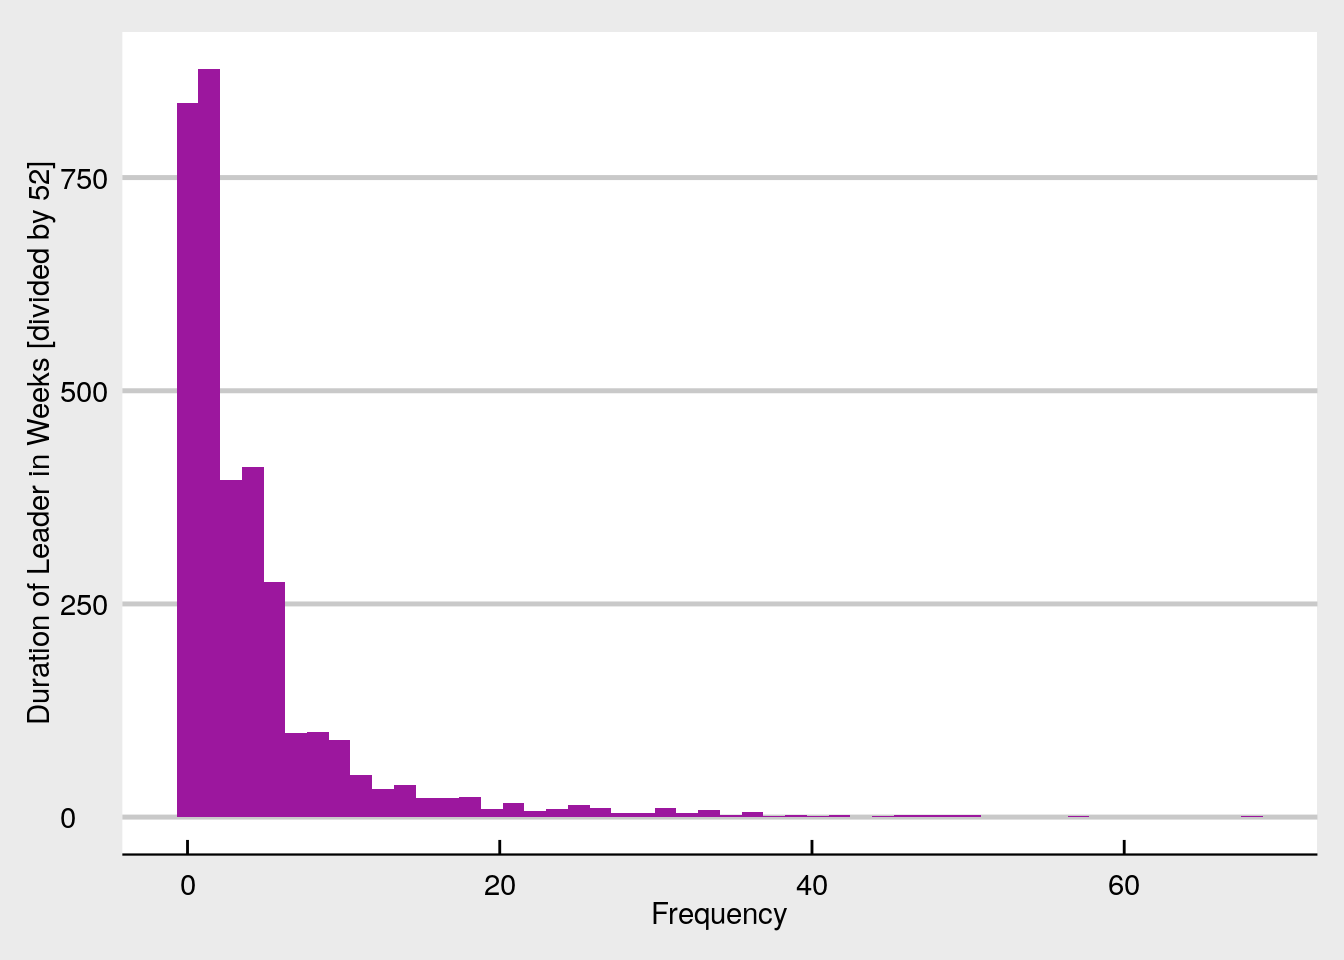
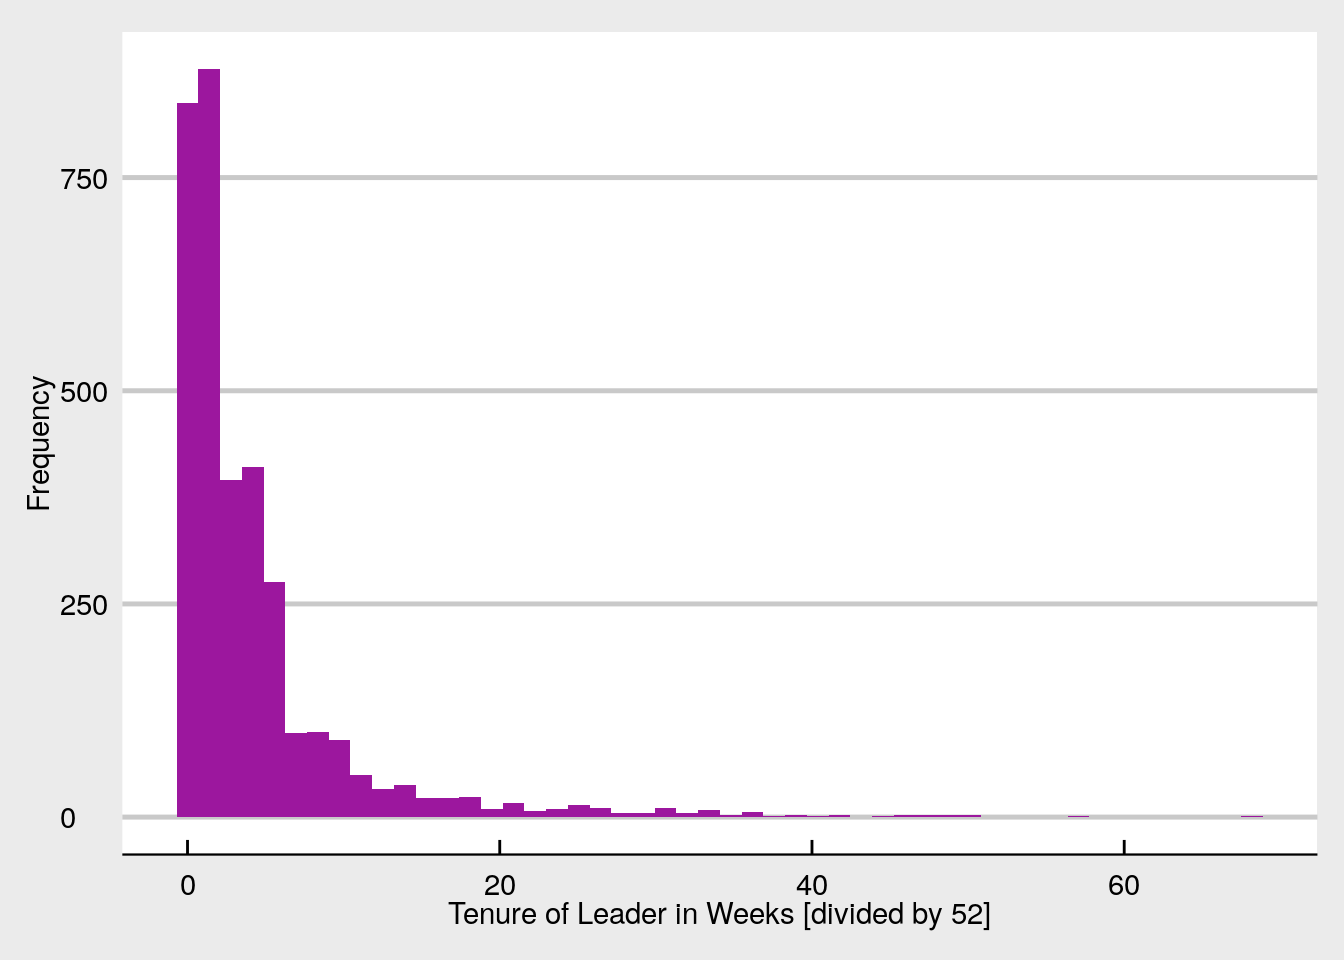
fredr titles require stringr

diff --git a/content/post/2019-04-11-fredr-is-very-neat.html b/content/post/2019-04-11-fredr-is-very-neat.html
@@ -55,12 +55,14 @@ ChargeOff %&gt;% select(title)</code></pre>
 ## 10 Net Charge-Offs on All Loans and Leases, Secured by Real Estate, Single…
 ## # … with 14 more rows</code></pre>
 <p>Wow, there is a rich array of data from that query. An even cooler feature is the ability to retrieve multiple at once in combination with the <code>map_dfr</code> command from the <code>purrr</code> library to make it tidy; that will go through the search results and stack the data that is returned [bind it together by rows]. These map commands are the tidy version of apply. In this case, binding the columns will likely fail because the times series are unlikely to be of the same length and that would create ragged columns. Better tidy from the start here.</p>
-<pre class="r"><code>ChargeOff.Data &lt;- map_dfr(ChargeOff$id, fredr)</code></pre>
-<p>Just to finish one piece, let me show what these data look like for one series.</p>
-<pre class="r"><code>ChargeOff.Data %&gt;% filter(series_id==&quot;CORSREOBS&quot;) %&gt;% 
-  ggplot(data = ., mapping = aes(x = date, y = value)) +
+<pre class="r"><code>library(stringr)
+ChargeOff.Data &lt;- map_dfr(ChargeOff$id, fredr) %&gt;% left_join(ChargeOff, by=c(&quot;series_id&quot; = &quot;id&quot;))</code></pre>
+<p>Just to finish one piece, let me show what these data look like for one series. Splitting the name into two parts gives us the title and subtitle but the split is inconsistent so the solution is not general.</p>
+<pre class="r"><code>ChargeOff.Short &lt;- ChargeOff.Data %&gt;% filter(series_id==&quot;CORSREOBS&quot;) 
+SeriesTitle &lt;- ChargeOff.Short[1,&quot;title&quot;] %&gt;% str_split(., &quot;[,]&quot;) %&gt;% unlist()
+ChargeOff.Short %&gt;% ggplot(data = ., mapping = aes(x = date, y = value)) +
     geom_line() +
-    labs(x = &quot;Observation Date&quot;, y = &quot;Rate&quot;)</code></pre>
+    labs(x = &quot;Date&quot;, y = &quot;Rate&quot;, title=SeriesTitle[[1]], subtitle = SeriesTitle[[2]] )</code></pre>
 <p><img src="/post/2019-04-11-fredr-is-very-neat_files/figure-html/unnamed-chunk-2-1.png" width="672" /></p>
 <div id="counties-and-mapping" class="section level2">
 <h2>Counties and Mapping</h2>

diff --git a/content/post/2019-04-14-visualisation-with-archigos-leaders-of-the-world.html b/content/post/2019-04-14-visualisation-with-archigos-leaders-of-the-world.html
@@ -101,7 +101,7 @@ skimr::skim(Shorty)</code></pre>
 </div>
 <div id="on-duration" class="section level2">
 <h2>On Duration</h2>
-<pre class="r"><code>Archigos %&gt;% mutate(Duration = difftime(enddate, startdate, units=&quot;weeks&quot;)/52) %&gt;% ggplot(aes(Duration)) + geom_histogram(bins=50, fill = &#39;#9c179e&#39;) + theme_economist_white() + labs(x=&quot;Frequency&quot;, y=&quot;Duration of Leader in Weeks [divided by 52]&quot;)</code></pre>
+<pre class="r"><code>Archigos %&gt;% mutate(Duration = difftime(enddate, startdate, units=&quot;weeks&quot;)/52) %&gt;% ggplot(aes(Duration)) + geom_histogram(bins=50, fill = &#39;#9c179e&#39;) + theme_economist_white() + labs(y=&quot;Frequency&quot;, x=&quot;Tenure of Leader in Weeks [divided by 52]&quot;)</code></pre>
 <pre><code>## Don&#39;t know how to automatically pick scale for object of type difftime. Defaulting to continuous.</code></pre>
 <p><img src="/post/2019-04-14-visualisation-with-archigos-leaders-of-the-world_files/figure-html/unnamed-chunk-6-1.png" width="672" /></p>
 </div>
